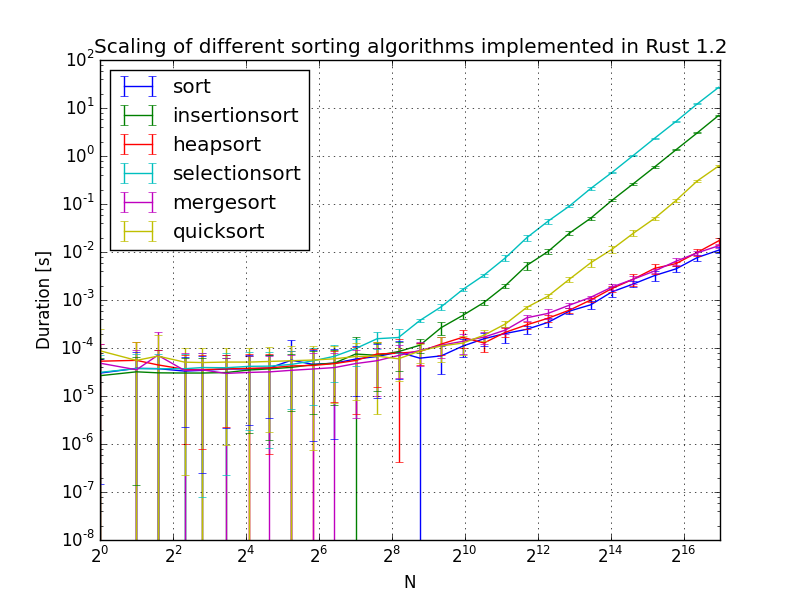
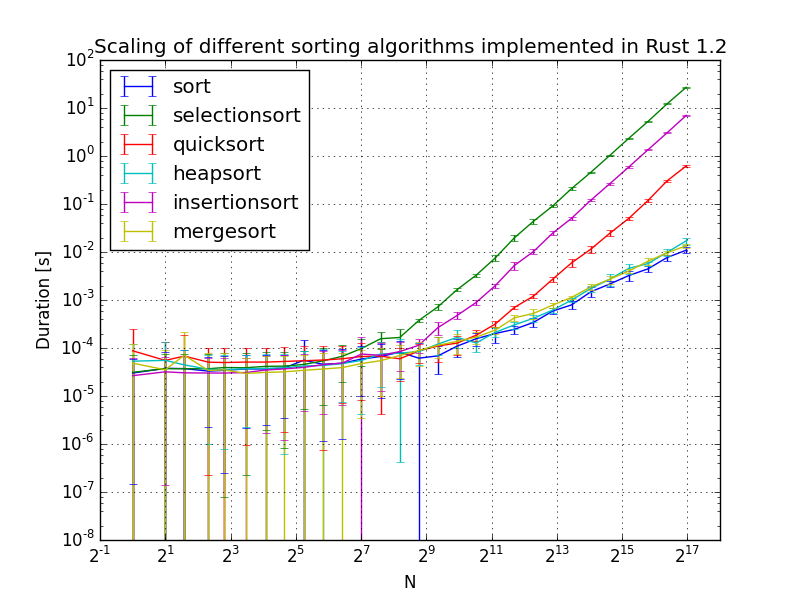
Go one order below and above max X values.

diff --git a/benchmark.py b/benchmark.py
@@ -114,6 +114,8 @@ def plot_timing(data):
     ax.set_ylabel('Duration [s]')
     ax.set_xscale('log', basex=2)
     ax.set_yscale('log')
+    xlims = ax.get_xlim()
+    ax.set_xlim(xlims[0]/2, xlims[1]*2)
     ax.set_title('Scaling of different sorting algorithms implemented in Rust 1.2')
     on_key.show()
 
